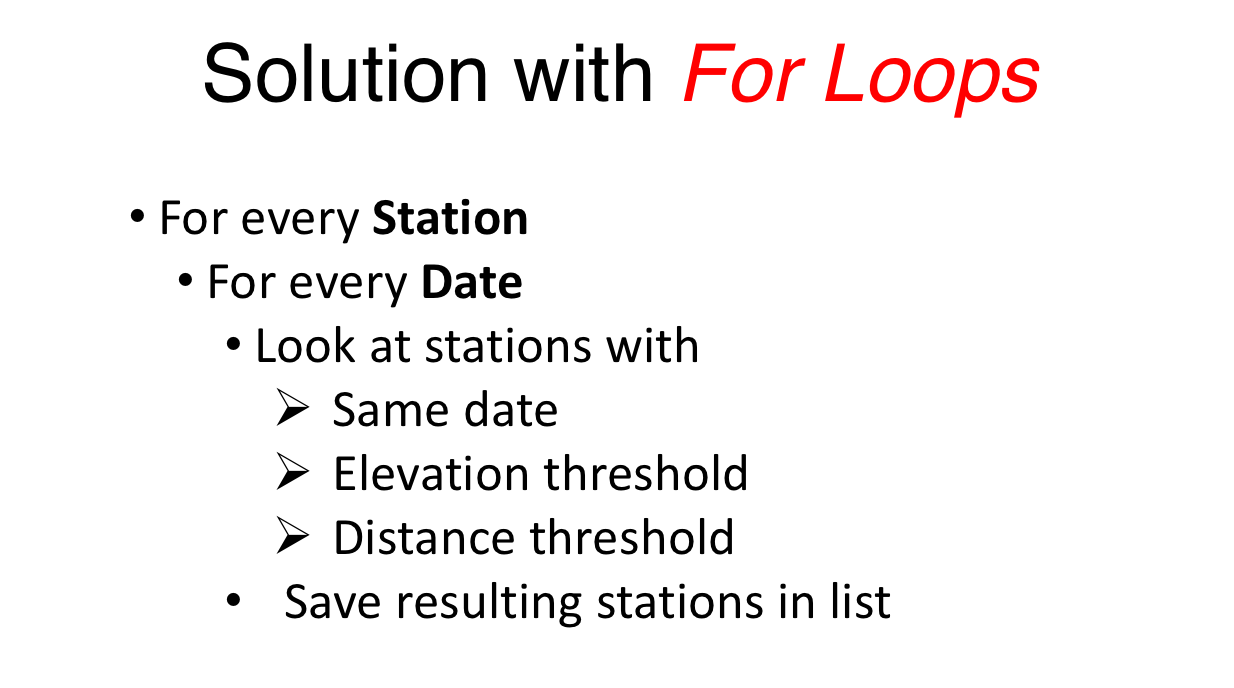
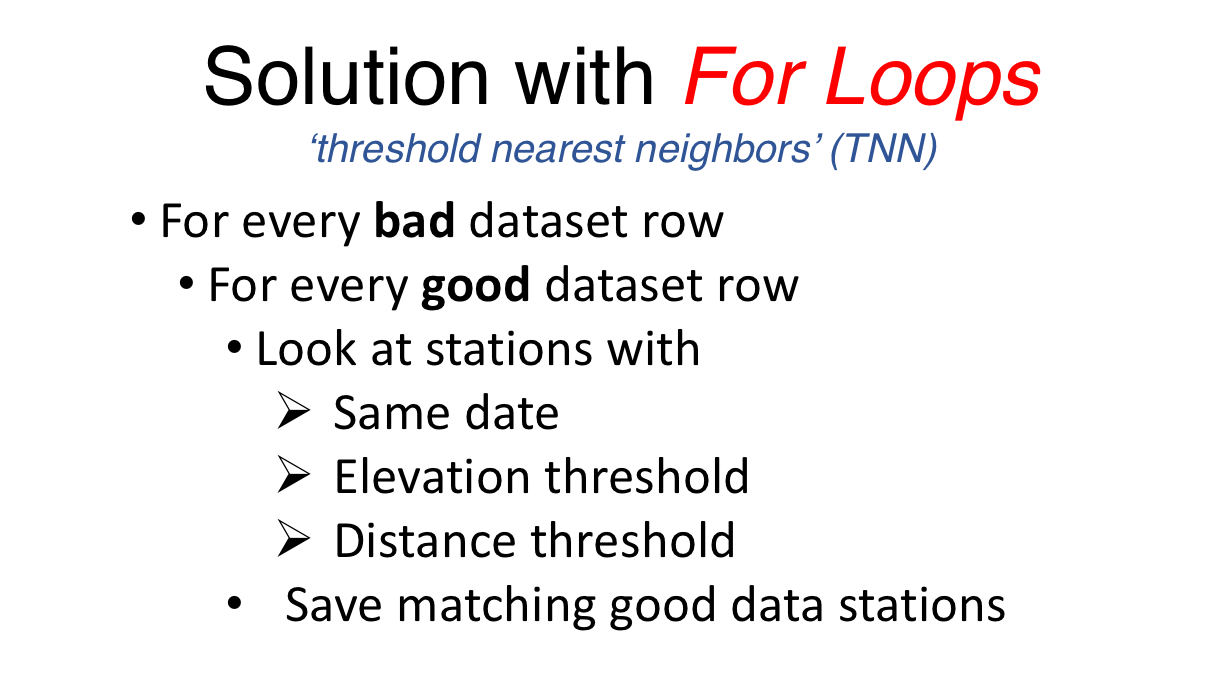
added
map slide, change for loop slide, and code slide

diff --git a/docs/topics/ruser/index.html b/docs/topics/ruser/index.html
@@ -457,11 +457,13 @@ document.getElementsByTagName('head')[0].appendChild(style);
 <h2></h2>
 </section><section id="section-3" class="slide level2" data-background="slide4.png">
 <h2></h2>
-</section><section id="section-4" class="slide level2" data-background="slide5.png">
+</section><section id="section-4" class="slide level2" data-background="mapslide.png">
 <h2></h2>
-</section><section id="section-5" class="slide level2" data-background="lastslide.png">
+</section><section id="section-5" class="slide level2" data-background="slide5.png">
 <h2></h2>
-</section><section id="section-6" class="slide level2" data-background="maysnow.png">
+</section><section id="section-6" class="slide level2" data-background="lastslide.png">
+<h2></h2>
+</section><section id="section-7" class="slide level2" data-background="maysnow.png">
 <h2></h2>
 </section></section>
     </div>
